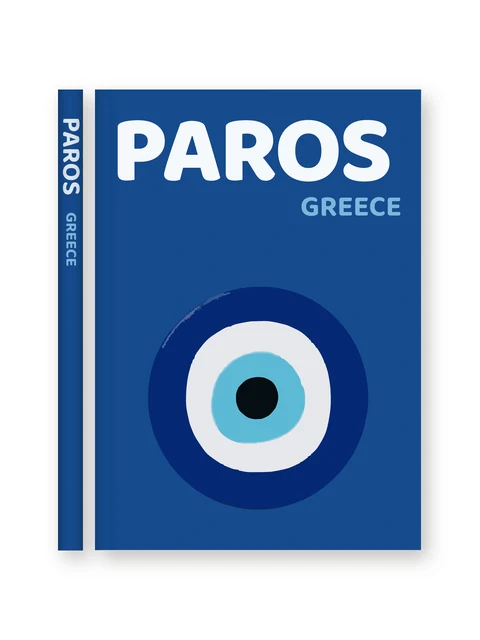
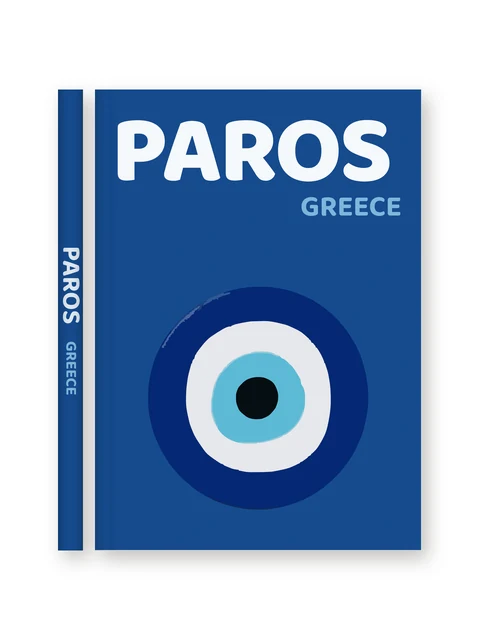
Spine elements centred; Family spine text back to its darker gold
- Spine: its elements (title, subtitle, logo, caption, divider) are shown
  as one group centred in the spine's height. Their positions only stacked
  them, and the overlap guards pushed them towards the bottom. Once the
  person moves or resizes one, the positions on screen are saved as they
  are (spine_layout_manual) and centring stops, so nothing moves under
  their hand; spines already arranged by hand keep their places. "Reset
  position" on a spine element puts the whole spine back in its centred
  layout.
- Family template: spine title and "MEMORIES" in #846B59, the darker gold
  of its original picture (the pale #B1977B read as washed out).
- Template pictures regenerated with both.

Claude-Session: https://claude.ai/code/session_019iW3qNmH4N4x87DfLWtU9k

Changed region(s): [[0.125, 0.1875, 0.1875, 0.5], [0.125, 0.5312, 0.1562, 0.625]]

diff --git a/frontend/src/components/CoverSpine.jsx b/frontend/src/components/CoverSpine.jsx
@@ -2,6 +2,7 @@ import React, { useRef, useState, useLayoutEffect, useEffect } from "react";
 import { DraggableItem } from "@/components/book/DraggableItem";
 import { measureDomTextWidth } from "@/components/book/textMeasure";
 import { spineLogoSource } from "@/lib/coverThemes";
+import { spineArrangedByHand } from "@/lib/coverDefaults";
 
 /** Tracks an element's live pixel height via ResizeObserver. */
 function useElementHeight(ref) {
@@ -449,13 +450,46 @@ export function CoverSpine({ title, template, cover = {}, editable = false, sele
     ? `${fittedSubtitleFontSizePx}px`
     : `${(((cover.spine_subtitle_size || 9) / 608) * 100).toFixed(2)}cqh`;
 
+  // The spine's elements are shown as one group centred in its height (the
+  // positions above only stack them: the overlap guards push them towards
+  // the bottom). Once the person moves or resizes one of them, the
+  // positions on screen are saved as they are (spine_layout_manual) and
+  // centring stops, so nothing moves under their hand.
+  const showLogo = cover.spine_logo_image && !cover.spine_logo_hidden;
+  const showDivider = cover.spine_title_caption_divider && !cover.spine_divider_hidden;
+  const spans = [
+    !cover.spine_title_hidden && [titleItem.y, titleItem.y + titleItem.h],
+    cover.spine_subtitle && [subtitleItem.y, subtitleItem.y + subtitleItem.h],
+    showDivider && [dividerItem.y, dividerItem.y + dividerItem.h],
+    cover.spine_caption && [captionItem.y, captionItem.y + visualCaptionH],
+    showLogo && [logoItem.y, logoItem.y + logoItem.h],
+  ].filter(Boolean);
+  const groupTop = spans.length ? Math.min(...spans.map((s) => s[0])) : 0;
+  const groupBottom = spans.length ? Math.max(...spans.map((s) => s[1])) : 1;
+  const manual = spineArrangedByHand(cover);
+  const shift = manual || !containerHeight ? 0 : (1 - (groupBottom - groupTop)) / 2 - groupTop;
+  const shown = (item) => ({ ...item, y: item.y + shift });
+  const updateSpine = (patch) => {
+    if (!onUpdateCover) return;
+    if (manual) return onUpdateCover({ ...patch, spine_layout_manual: true });
+    onUpdateCover({
+      spine_layout_manual: true,
+      spine_title_y: titleItem.y + shift, spine_title_h: titleItem.h,
+      spine_subtitle_y: subtitleItem.y + shift, spine_subtitle_h: subtitleItem.h,
+      spine_caption_y: captionItem.y + shift, spine_caption_h: captionItem.h,
+      spine_divider_y: dividerItem.y + shift, spine_divider_h: dividerItem.h,
+      spine_logo_x: logoItem.x, spine_logo_y: logoItem.y + shift, spine_logo_w: logoItem.w, spine_logo_h: logoItem.h,
+      ...patch,
+    });
+  };
+
   return (
     <div ref={containerRef} data-tour="cover-spine" className="relative h-full" style={{ background: bg, containerType: "size" }}>
       <div className="absolute inset-0 grain pointer-events-none" />
       {!cover.spine_title_hidden && (
         <DraggableItem
-          item={titleItem}
-          onChange={(patch) => onUpdateCover && onUpdateCover({ spine_title_y: patch.y ?? titleItem.y, spine_title_h: patch.h ?? titleItem.h })}
+          item={shown(titleItem)}
+          onChange={(patch) => updateSpine({ spine_title_y: patch.y ?? titleItem.y + shift, spine_title_h: patch.h ?? titleItem.h })}
           onSelect={() => onSelectTitle && onSelectTitle()}
           onDoubleClick={() => setTitleEditing(true)}
           selected={selectedZone === "spine-title"}
@@ -510,8 +544,8 @@ export function CoverSpine({ title, template, cover = {}, editable = false, sele
       )}
       {cover.spine_subtitle && (
         <DraggableItem
-          item={subtitleItem}
-          onChange={(patch) => onUpdateCover && onUpdateCover({ spine_subtitle_y: patch.y ?? subtitleItem.y, spine_subtitle_h: patch.h ?? subtitleItem.h })}
+          item={shown(subtitleItem)}
+          onChange={(patch) => updateSpine({ spine_subtitle_y: patch.y ?? subtitleItem.y + shift, spine_subtitle_h: patch.h ?? subtitleItem.h })}
           onSelect={() => onSelectSubtitle && onSelectSubtitle()}
           onDoubleClick={() => setSubtitleEditing(true)}
           selected={selectedZone === "spine-subtitle"}
@@ -564,10 +598,10 @@ export function CoverSpine({ title, template, cover = {}, editable = false, sele
           )}
         </DraggableItem>
       )}
-      {cover.spine_title_caption_divider && !cover.spine_divider_hidden && (
+      {showDivider && (
         <DraggableItem
-          item={dividerItem}
-          onChange={(patch) => onUpdateCover && onUpdateCover({ spine_divider_y: patch.y ?? dividerItem.y, spine_divider_h: patch.h ?? dividerItem.h })}
+          item={shown(dividerItem)}
+          onChange={(patch) => updateSpine({ spine_divider_y: patch.y ?? dividerItem.y + shift, spine_divider_h: patch.h ?? dividerItem.h })}
           onSelect={() => onSelectDivider && onSelectDivider()}
           selected={selectedZone === "spine-divider"}
           containerRef={containerRef}
@@ -593,8 +627,8 @@ export function CoverSpine({ title, template, cover = {}, editable = false, sele
       )}
       {cover.spine_caption && (
         <DraggableItem
-          item={{ ...captionItem, h: visualCaptionH }}
-          onChange={(patch) => onUpdateCover && onUpdateCover({ spine_caption_y: patch.y ?? captionItem.y, spine_caption_h: patch.h ?? captionItem.h })}
+          item={shown({ ...captionItem, h: visualCaptionH })}
+          onChange={(patch) => updateSpine({ spine_caption_y: patch.y ?? captionItem.y + shift, spine_caption_h: patch.h ?? captionItem.h })}
           onSelect={() => onSelectCaption && onSelectCaption()}
           onDoubleClick={() => setCaptionEditing(true)}
           selected={selectedZone === "spine-caption"}
@@ -649,10 +683,10 @@ export function CoverSpine({ title, template, cover = {}, editable = false, sele
           )}
         </DraggableItem>
       )}
-      {cover.spine_logo_image && !cover.spine_logo_hidden && (
+      {showLogo && (
         <DraggableItem
-          item={logoItem}
-          onChange={(patch) => onUpdateCover && onUpdateCover({ spine_logo_x: patch.x ?? logoItem.x, spine_logo_y: patch.y ?? logoItem.y, spine_logo_w: patch.w ?? logoItem.w, spine_logo_h: patch.h ?? logoItem.h })}
+          item={shown(logoItem)}
+          onChange={(patch) => updateSpine({ spine_logo_x: patch.x ?? logoItem.x, spine_logo_y: patch.y ?? logoItem.y + shift, spine_logo_w: patch.w ?? logoItem.w, spine_logo_h: patch.h ?? logoItem.h })}
           onSelect={() => onSelectLogo && onSelectLogo()}
           selected={selectedZone === "spine-logo"}
           containerRef={containerRef}

diff --git a/frontend/src/lib/coverDefaults.js b/frontend/src/lib/coverDefaults.js
@@ -31,11 +31,26 @@ export function defaultTitleBox(album) {
   };
 }
 
+const SPINE_PREFIXES = ["spine_title", "spine_subtitle", "spine_caption", "spine_divider", "spine_logo"];
+
+/** Whether the spine's elements were placed by hand (then they're not centred). */
+export function spineArrangedByHand(cover) {
+  cover = cover || {};
+  // Albums arranged before centring existed: a text's height is only ever
+  // saved by moving or resizing it.
+  return cover.spine_layout_manual ?? ["title", "subtitle", "caption", "divider"].some((k) => cover[`spine_${k}_h`] != null);
+}
+
 // Spine elements (prefix "spine_title", "spine_subtitle", "spine_caption"…):
 // the template's own position, or null to let CoverSpine place it itself.
+// Once one was moved by hand the whole spine holds fixed positions (see
+// spine_layout_manual in CoverSpine): resetting puts every element back, in
+// the centred group.
 export function defaultSpineBox(album, prefix) {
   const tpl = templateCover(album) || {};
-  return Object.fromEntries(["x", "y", "w", "h"].map((k) => [`${prefix}_${k}`, tpl[`${prefix}_${k}`] ?? null]));
+  const boxOf = (p) => ["x", "y", "w", "h"].map((k) => [`${p}_${k}`, tpl[`${p}_${k}`] ?? null]);
+  if (!spineArrangedByHand(album?.cover)) return Object.fromEntries(boxOf(prefix));
+  return { ...Object.fromEntries(SPINE_PREFIXES.flatMap(boxOf)), spine_layout_manual: null };
 }
 
 // Elements of the same kind are matched in order (the 2nd photo frame of

diff --git a/frontend/src/lib/coverThemes.js b/frontend/src/lib/coverThemes.js
@@ -381,7 +381,7 @@ export const COVER_THEMES = [
           spine_title_weight: "700",
           spine_title_y: 0.28,
           spine_title_text: "FAMILY",
-          spine_title_color: "#B1977B",
+          spine_title_color: "#846B59",
           spine_logo_image: HEART_LOGO_URL,
           spine_logo_lines: true,
           spine_logo_x: 0.06, spine_logo_y: 0.46, spine_logo_w: 0.88, spine_logo_h: 0.16,
@@ -389,7 +389,7 @@ export const COVER_THEMES = [
           spine_caption_font: CORMORANT,
           spine_caption_size: 22,
           spine_caption_weight: "600",
-          spine_caption_color: "#B1977B",
+          spine_caption_color: "#846B59",
           spine_caption_y: 0.64,
           extra_items: [],
         },

diff --git a/frontend/src/lib/coverDefaults.test.js b/frontend/src/lib/coverDefaults.test.js
@@ -96,3 +96,14 @@ describe("defaultSpineBox", () => {
     });
   });
 });
+
+describe("defaultSpineBox after a spine element was moved by hand", () => {
+  it("puts the whole spine back in its centred layout", () => {
+    const template = ALL_TEMPLATES.find((t) => t.cover.spine_logo_y != null);
+    const album = { cover_template_id: template.id, cover: { spine_layout_manual: true, spine_title_y: 0.5, spine_logo_y: 0.9 } };
+    const result = defaultSpineBox(album, "spine_title");
+    expect(result.spine_layout_manual).toBeNull();
+    expect(result.spine_title_y).toBe(template.cover.spine_title_y ?? null);
+    expect(result.spine_logo_y).toBe(template.cover.spine_logo_y);
+  });
+});
